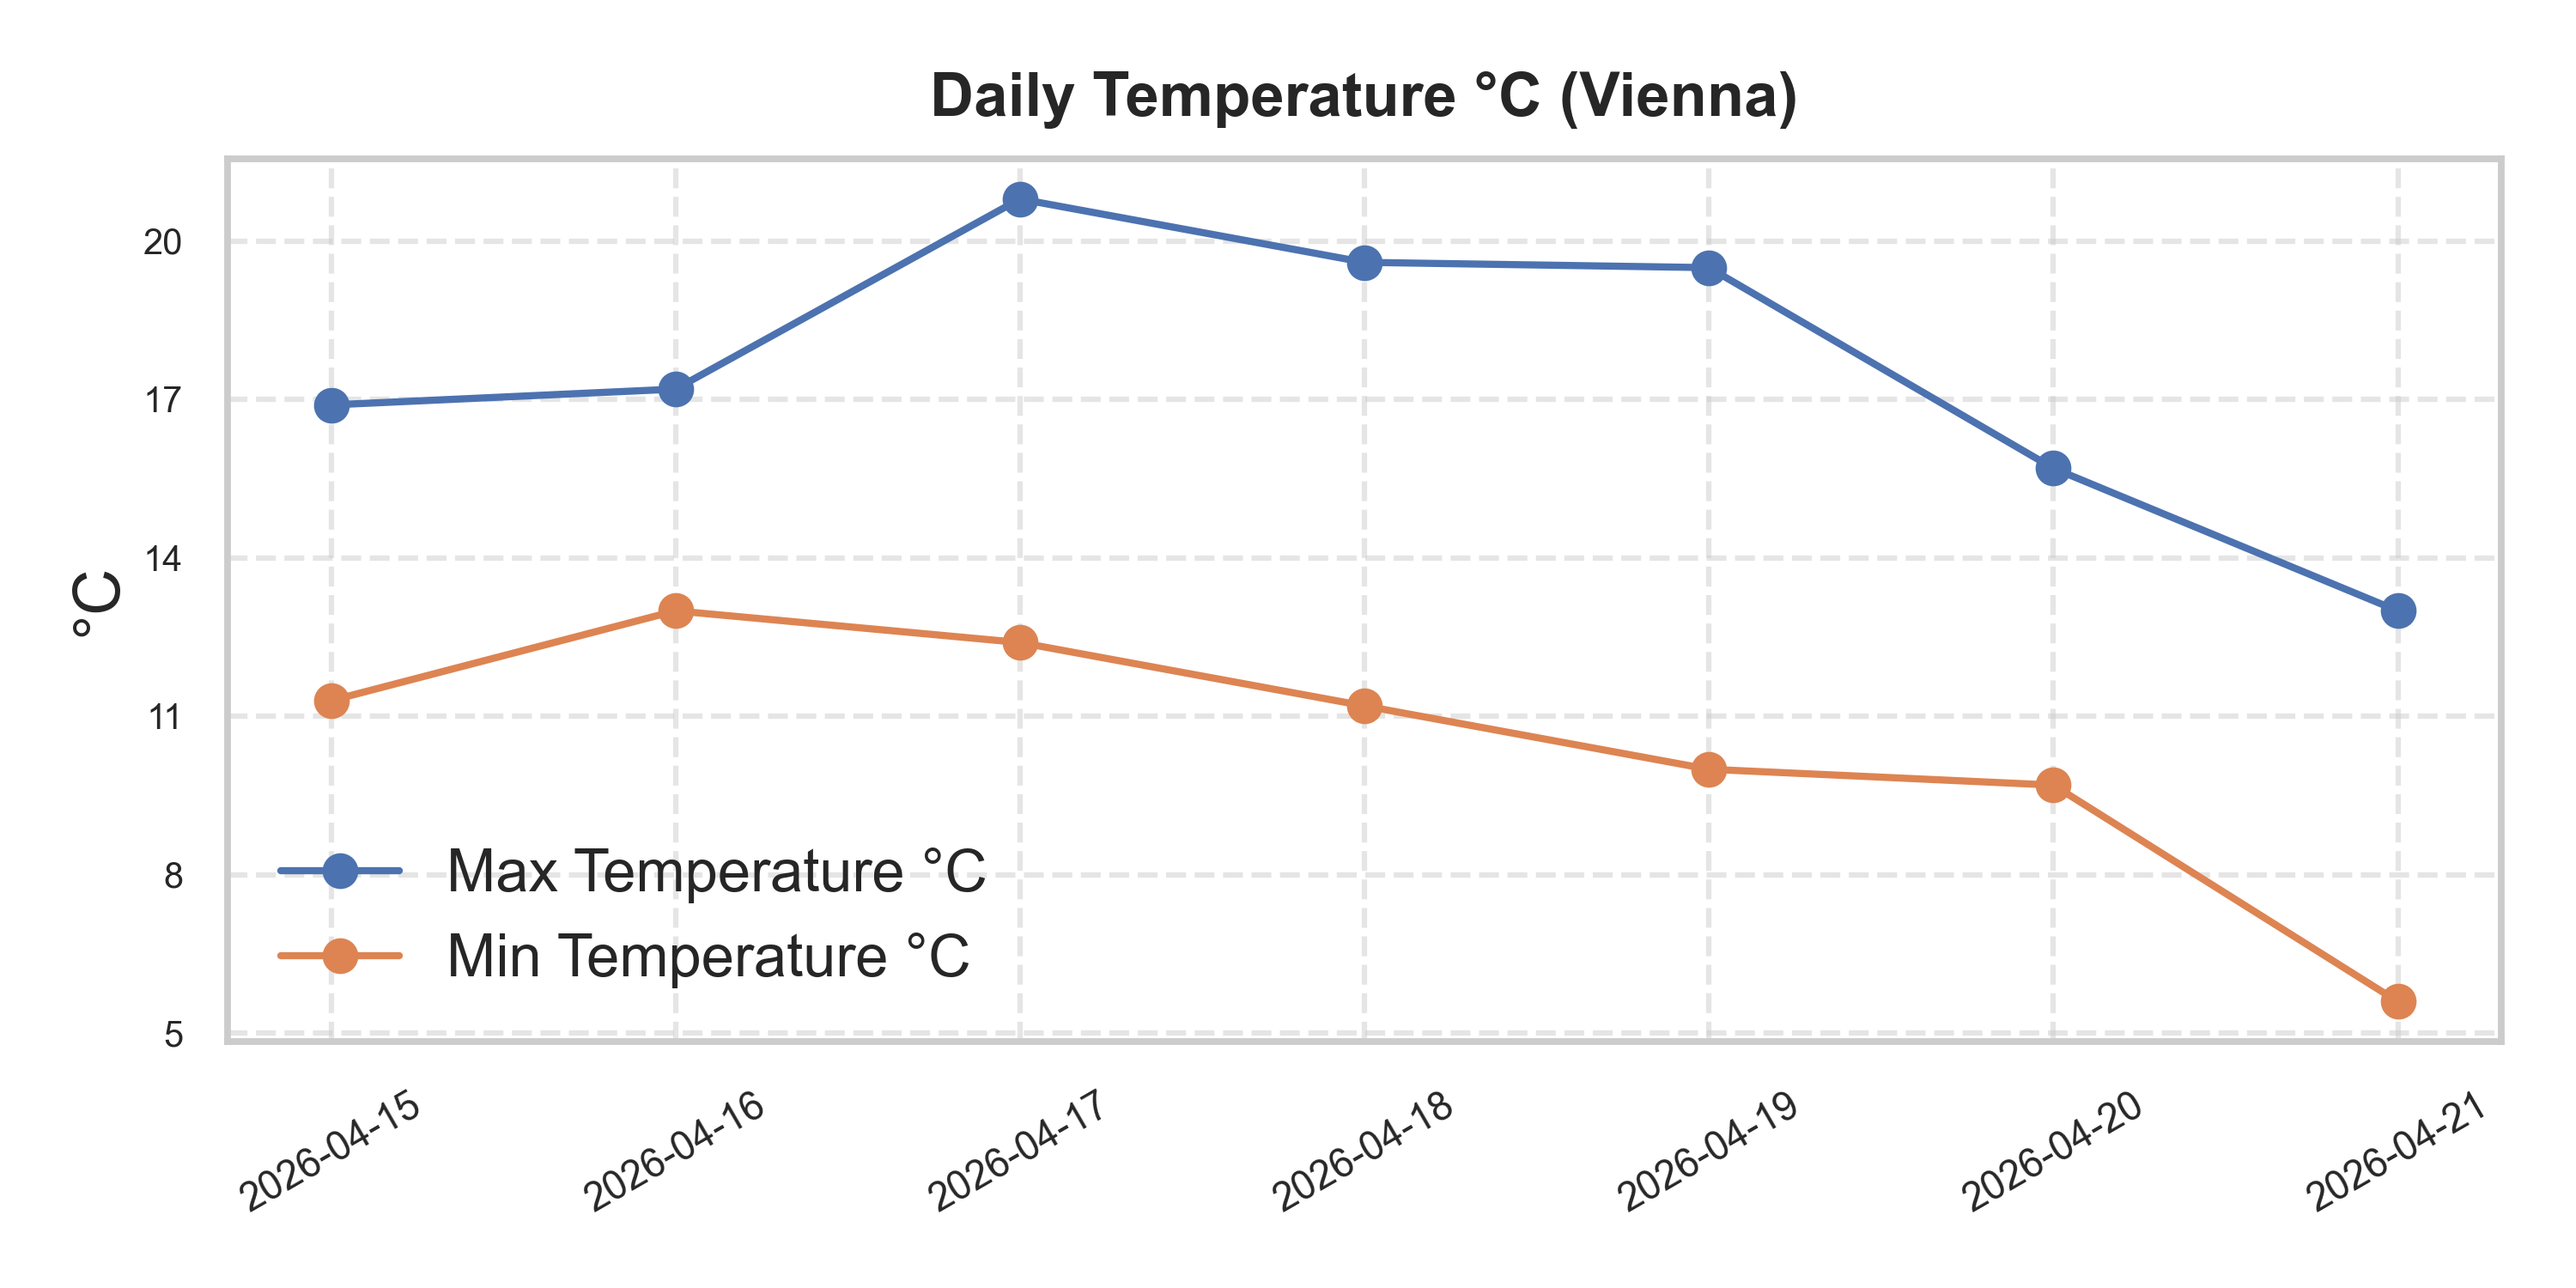
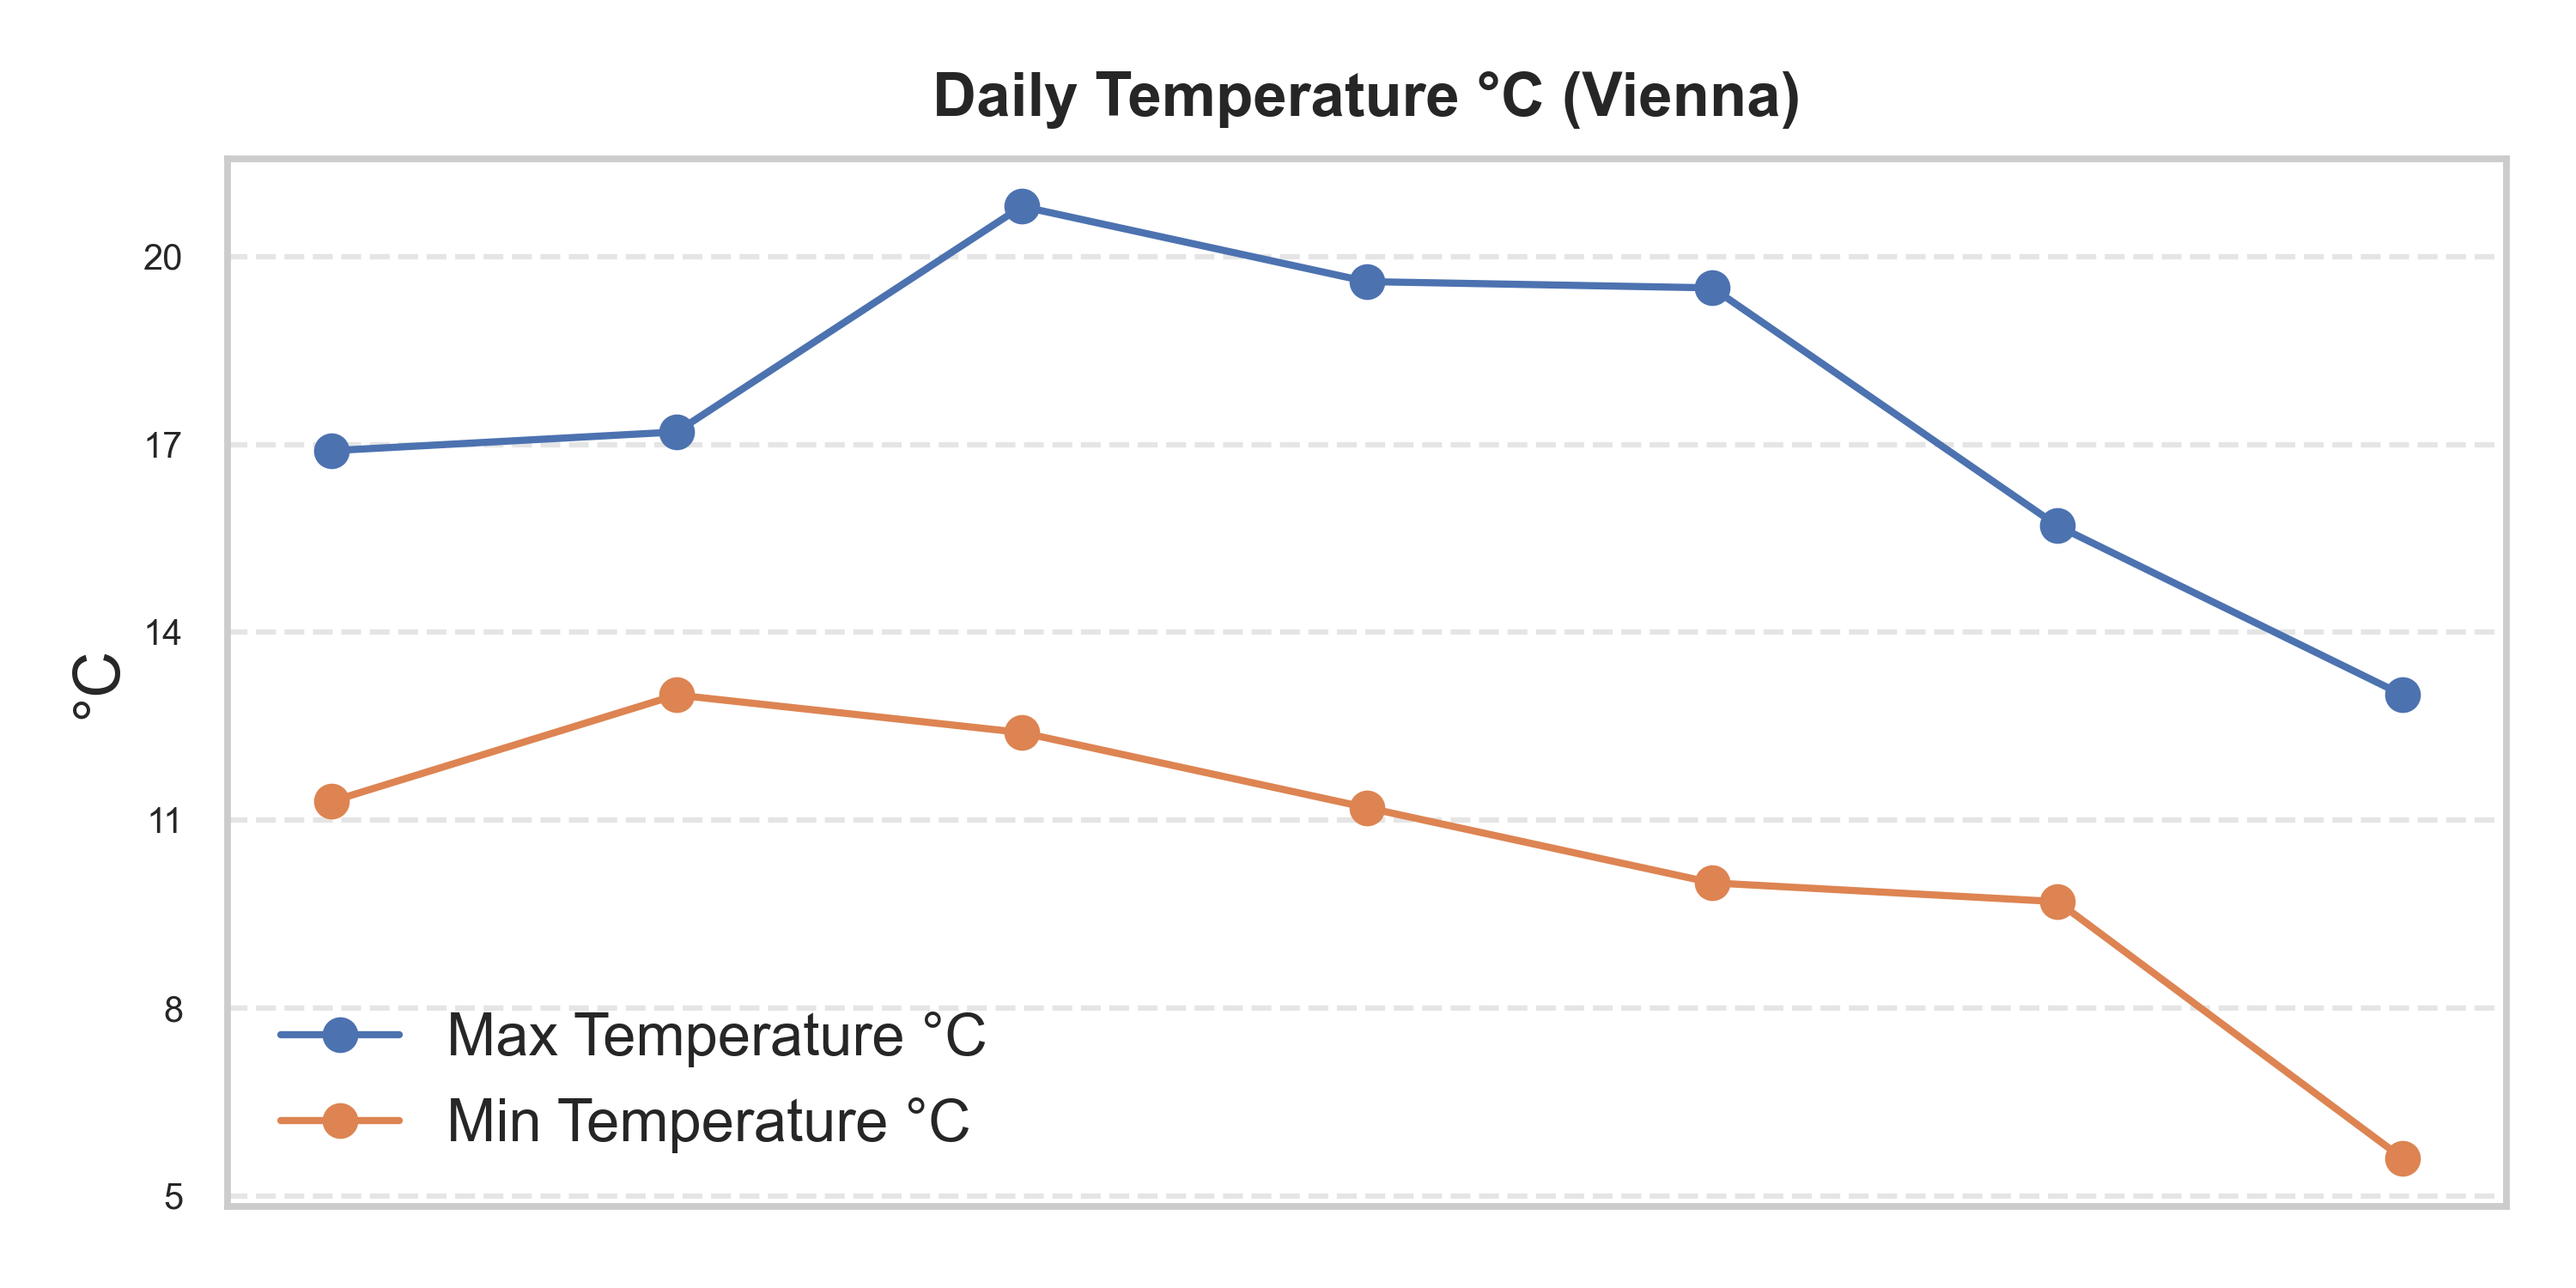
Change date column reference to date_str

diff --git a/src/visualization.py b/src/visualization.py
@@ -7,15 +7,13 @@ sns.despine()
 sns.set_palette("deep")
 
 def plot_weather(df):
-    _, ax = plt.subplots(figsize=(10, 5))
-
-    x = range(len(df))
+    fig, ax = plt.subplots(figsize=(10, 5))
 
     ax.set_xticks(range(len(df)))
     ax.set_xticklabels(df["date_str"], fontsize=11, rotation=30)
 
-    ax.plot(x, df["temp_max"], label="Max Temperature °C", marker='o', linewidth=2)
-    ax.plot(x, df["temp_min"], label="Min Temperature °C", marker='o', linewidth=2)
+    ax.plot(df["date"], df["temp_max"], label="Max Temperature °C", marker='o', linewidth=2)
+    ax.plot(df["date"], df["temp_min"], label="Min Temperature °C", marker='o', linewidth=2)
 
     ax.set_title("Daily Temperature °C (Vienna)", fontsize=17, pad=12, weight="bold")
     ax.set_ylabel("°C")
@@ -31,10 +29,11 @@ def plot_weather(df):
 
     plt.tight_layout()
     plt.savefig("outputs/weather_data.png", dpi=300)
+    plt.close(fig)
 
 def plot_precipitation(df):
 
-    _, ax = plt.subplots(figsize=(10, 4))
+    fig, ax = plt.subplots(figsize=(10, 4))
 
     width = 0.35
 
@@ -49,16 +48,16 @@ def plot_precipitation(df):
 
     ax.tick_params(axis='y', labelsize=10)
 
-    ax.legend(frameon=False)
     ax.grid(True, linestyle='--', alpha=0.5)
 
     plt.xticks(fontsize=11, rotation=30)
     plt.tight_layout()
     plt.savefig("outputs/precipitation.png", dpi=300)
+    plt.close(fig)
 
 def plot_temperature_with_ma(df):
 
-    _, ax = plt.subplots(figsize=(10, 5))
+    fig, ax = plt.subplots(figsize=(10, 5))
 
     y = np.arange(-10, 41, 5)
 
@@ -91,3 +90,4 @@ def plot_temperature_with_ma(df):
     plt.xticks(fontsize=11, rotation=30)
     plt.tight_layout()
     plt.savefig("outputs/temp_trend.png", dpi=300)
+    plt.close(fig)

diff --git a/src/transform.py b/src/transform.py
@@ -23,12 +23,12 @@ def detect_anomalies(df, threshold=2):
 
 def find_hottest_day(df):
     idx = np.argmax(df["temp_max"])
-    return df["date"][idx], df["temp_max"][idx]
+    return df["date_str"][idx], df["temp_max"][idx]
 
 
 def find_coldest_day(df):
     idx = np.argmin(df["temp_min"])
-    return df["date"][idx], df["temp_min"][idx]
+    return df["date_str"][idx], df["temp_min"][idx]
 
 
 def export_results(df, filename):

diff --git a/main.py b/main.py
@@ -25,7 +25,5 @@ def main():
     plot_precipitation(df)
     plot_temperature_with_ma(df)
 
-    plt.show()
-
 if __name__ == "__main__":
     main()
